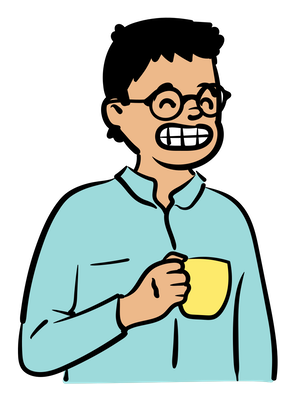
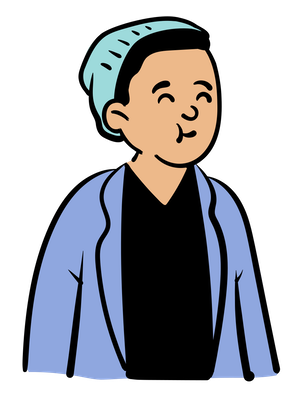
second commit

diff --git a/index.html b/index.html
@@ -33,12 +33,12 @@
     <div class="half-section">
      <div class="avatar-container">
       <img src="./assets/avatar.png" alt="">
-      <h3>"Yo, disfrutando de mi café..."</h3>
+      <h3>"Yo, disfrutando de un dulce..."</h3>
      </div>
     </div>
     <div class="half-section text-section">
       <div class="introduction">
-        <h1 class="title">Hola!, <br> Soy Nombre y Apellido </h1>
+        <h1 class="title">Hola!, <br> Soy José Martínez </h1>
         <ul class="socials">
           <li><a class="socials-icon" href=""><i class="bi bi-github"></i></a></li>
           <li><a class="socials-icon" href=""><i class="bi bi-linkedin"></i></a></li>
@@ -47,7 +47,7 @@
           <li><a class="socials-icon" href=""><i class="bi bi-instagram"></i></a></li>
         </ul>
   
-        <p class="description">+15 años de experiencia trabajando en aplicaciones de alta escala. <br> Déjame contarte un poco de mí, sigue deslizando!</p>
+        <p class="description">+1 año de experiencia trabajando en aplicaciones de alta escala. <br> Déjame contarte un poco de mí, sigue deslizando!</p>
       </div>
 
     </div>
@@ -56,16 +56,12 @@
   <section id="about" class="content">
     <aside class="half-section text-section">
       <p>
-        Lorem ipsum dolor sit amet consectetur adipisicing elit. Autem sint porro reiciendis debitis et harum animi rem fugit eaque. Officia maxime id ipsum culpa temporibus dolore saepe quos quasi debitis.
-        Lorem ipsum dolor sit amet consectetur adipisicing elit. Sapiente quisquam rem quam, corporis itaque dolor deserunt libero doloremque quibusdam repellat quidem doloribus quia eos officia placeat, quasi, odit repellendus ipsa.
-      </p>
-      <p>
-        Lorem ipsum dolor sit amet consectetur adipisicing elit. Repellendus dolore esse a officiis autem sint harum quos rerum neque aut, totam itaque iure perferendis vitae reiciendis praesentium corporis saepe consectetur.
-        Lorem ipsum dolor sit amet consectetur adipisicing elit. Obcaecati veniam, deleniti rem, neque ipsum eos ullam distinctio, atque harum perferendis itaque ipsam labore voluptatibus. Maiores provident perspiciatis sunt mollitia impedit.
-      </p>
-      <p>
-        Lorem ipsum dolor sit amet consectetur adipisicing elit. Repellendus dolore esse a officiis autem sint harum quos rerum neque aut, totam itaque iure perferendis vitae reiciendis praesentium corporis saepe consectetur.
-        Lorem ipsum dolor sit amet consectetur adipisicing elit. Obcaecati veniam, deleniti rem, neque ipsum eos ullam distinctio, atque harum perferendis itaque ipsam labore voluptatibus. Maiores provident perspiciatis sunt mollitia impedit.
+        Me considero creativo, autodidacta y con iniciativa
+        propia. Estoy apasionado por los videojuegos y su
+        desarrollo. El motor que manejo es Unreal, Unity3D
+        con Shader Graph, Scripts con C#. 
+        Mi aspiración es poder vivir de la creación de video-
+        juegos y perfeccionarme para llegar a un nivel Senior
       </p>
     </aside>
     <aside class="half-section title-section">
@@ -82,27 +78,16 @@
           <li>
             <h3>Proyecto 1</h3>
             <p>
-              Lorem ipsum dolor sit amet, consectetur adipisicing elit.
-              Quisquam, quidem, quisquam.
-              Lorem ipsum dolor sit amet consectetur adipisicing elit. Impedit architecto sapiente itaque eius voluptate! Nisi voluptas explicabo quaerat? Alias perspiciatis vel praesentium adipisci impedit? Commodi harum repellat eum beatae dolorum.
+              Diseño, desarrollo e implementación de un 
+              sistema gestor de avatares de usuario. Realizado con 
+              tecnologías Krita, Blender.
             </p>
             <a class="project-link" href="#"><i class="bi bi-github"></i> Ver más</a>
           </li>
           <li>
             <h3>Proyecto 2</h3>
             <p>
-              Lorem ipsum dolor sit amet, consectetur adipisicing elit.
-              Quisquam, quidem, quisquam.
-              Lorem ipsum dolor sit amet consectetur adipisicing elit. Impedit architecto sapiente itaque eius voluptate! Nisi voluptas explicabo quaerat? Alias perspiciatis vel praesentium adipisci impedit? Commodi harum repellat eum beatae dolorum.
-            </p>
-            <a class="project-link" href="#"><i class="bi bi-github"></i> Ver más</a>
-          </li>
-          <li>
-            <h3>Proyecto 3</h3>
-            <p>
-              Lorem ipsum dolor sit amet, consectetur adipisicing elit.
-              Quisquam, quidem, quisquam.
-              Lorem ipsum dolor sit amet consectetur adipisicing elit. Impedit architecto sapiente itaque eius voluptate! Nisi voluptas explicabo quaerat? Alias perspiciatis vel praesentium adipisci impedit? Commodi harum repellat eum beatae dolorum.
+              Implementación y Soporte de Animacion y Modelado con Blender.
             </p>
             <a class="project-link" href="#"><i class="bi bi-github"></i> Ver más</a>
           </li>

diff --git a/styles.css b/styles.css
@@ -1,8 +1,8 @@
-@import url('https://fonts.googleapis.com/css2?family=Manrope:wght@200;400;700;800&display=swap');
+@import url('https://fonts.googleapis.com/css2?family=Lobster:wght@200;400;700;800&display=swap');
 
 :root {
-  --primary-color: #3282B8;
-  --primary-color-dark: #0F4C75;
+  --primary-color: #2C5364;
+  --primary-color-dark: #203A43;
   --accent-color: #FFF8F0;
 }
 
@@ -13,7 +13,7 @@ html {
 body {
   margin: 0;
   padding: 0;
-  font-family: 'Manrope', sans-serif;
+  font-family: 'Harrington', sans-serif;
 }
 
 .navbar {
@@ -87,7 +87,7 @@ body {
 }
 
 .avatar-container img {
-  height: 700px;
+  height: 500px;
   width: auto;
 }
 
